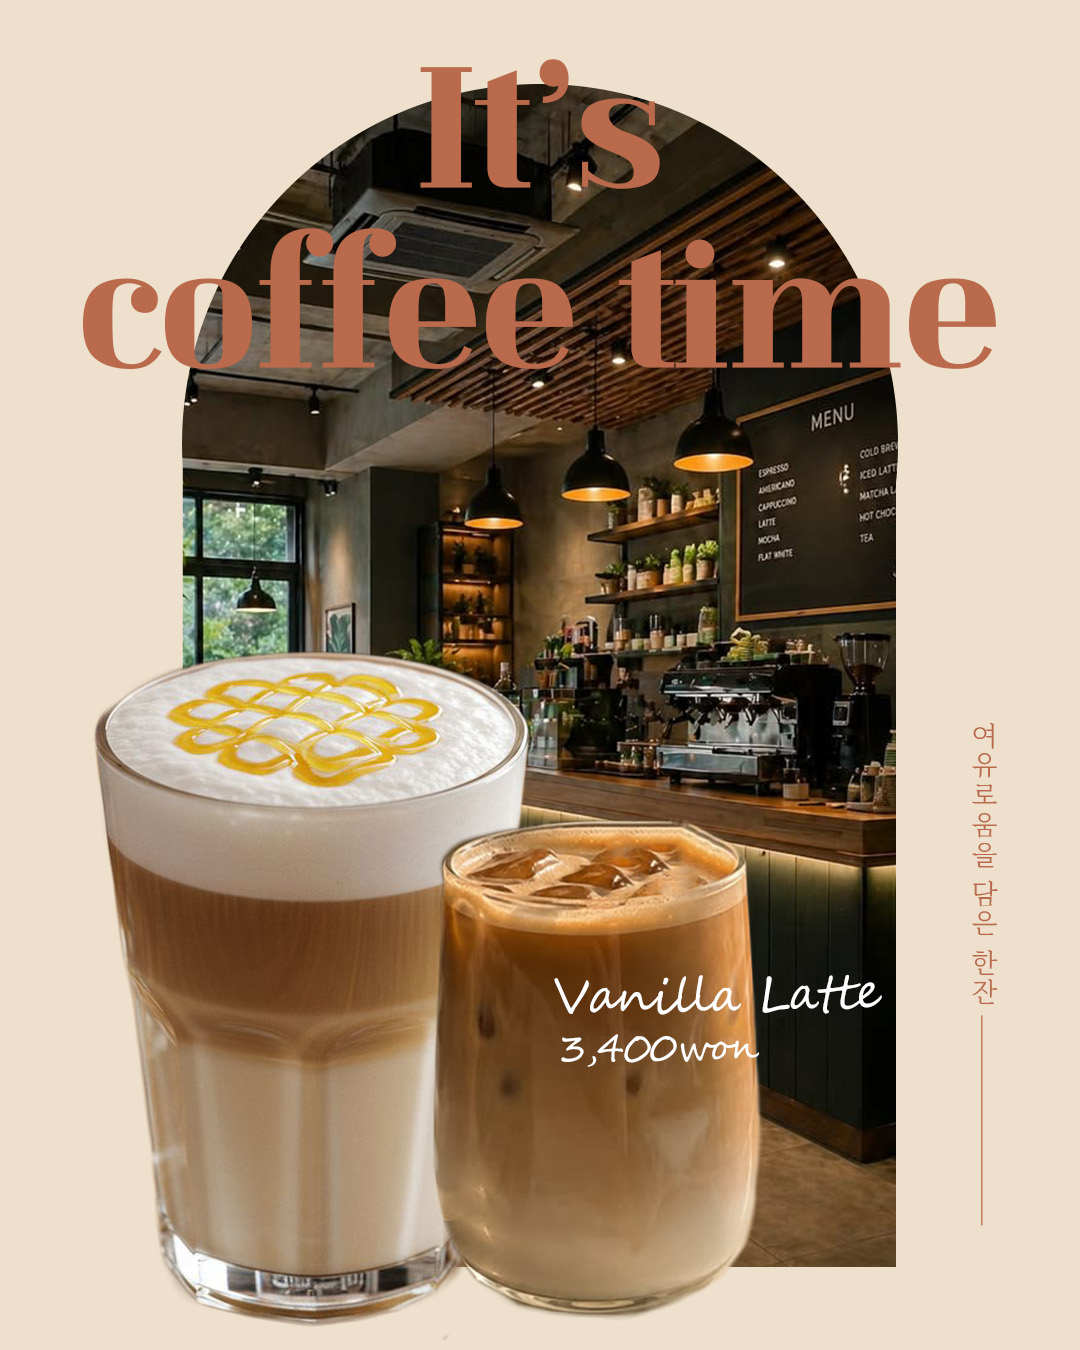
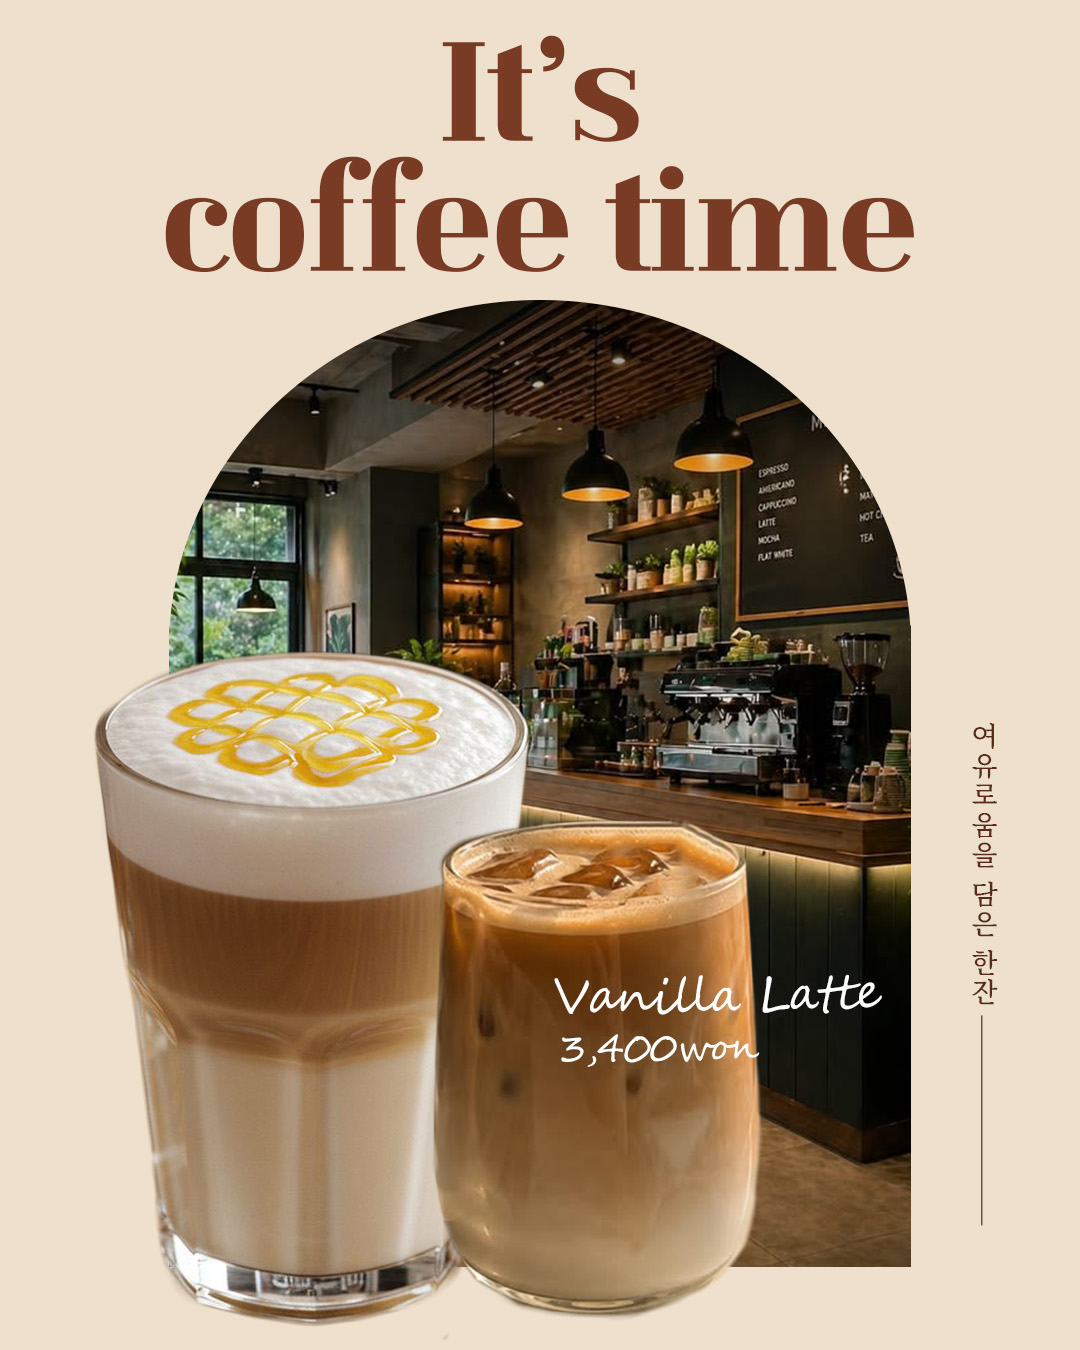
그래픽 디자인 변경, 수정 중

Changed region(s): [[0.0611, 0.0311, 0.9167, 0.9333], [0.8861, 0.56, 0.9167, 0.7467], [0.6417, 0.3111, 0.7028, 0.3733]]

diff --git a/index.html b/index.html
@@ -502,9 +502,9 @@
                     <div class="swiper-wrapper">
                         <div class="swiper-slide design1"><img src="./images/toom_design.jpg" alt="톰 홀랜드 광고 배너" class="js_popup_img"></div>
                         <div class="swiper-slide design2"><img src="./images/fashion_design.jpg" alt="패션 광고 배너" class="js_popup_img"></div>
-                        <div class="swiper-slide design3"><img src="./images/iec_cream_ad.jpg" alt="딸기 아이스크림 광고 배너" class="js_popup_img"></div>
-                        <div class="swiper-slide design4"><img src="./images/coffee_ad.jpg" alt="바닐라 라떼 광고 배너" class="js_popup_img"></div>
-                        <div class="swiper-slide design5"><img src="./images/toom_design.jpg" alt="" class="js_popup_img"></div>
+                        <div class="swiper-slide design3"><img src="./images/ice_cream.jpg" alt="딸기 아이스크림 광고 배너" class="js_popup_img"></div>
+                        <div class="swiper-slide design4"><img src="./images/ice_cream2.jpg" alt="" class="js_popup_img"></div>
+                        <div class="swiper-slide design5"><img src="./images/coffee_ad.jpg" alt="바닐라 라떼 광고 배너" class="js_popup_img"></div>
                     </div><!-- e:swiper-weapper -->
                 </div><!-- e:graphic_design -->
             </div><!-- e:graphic -->
